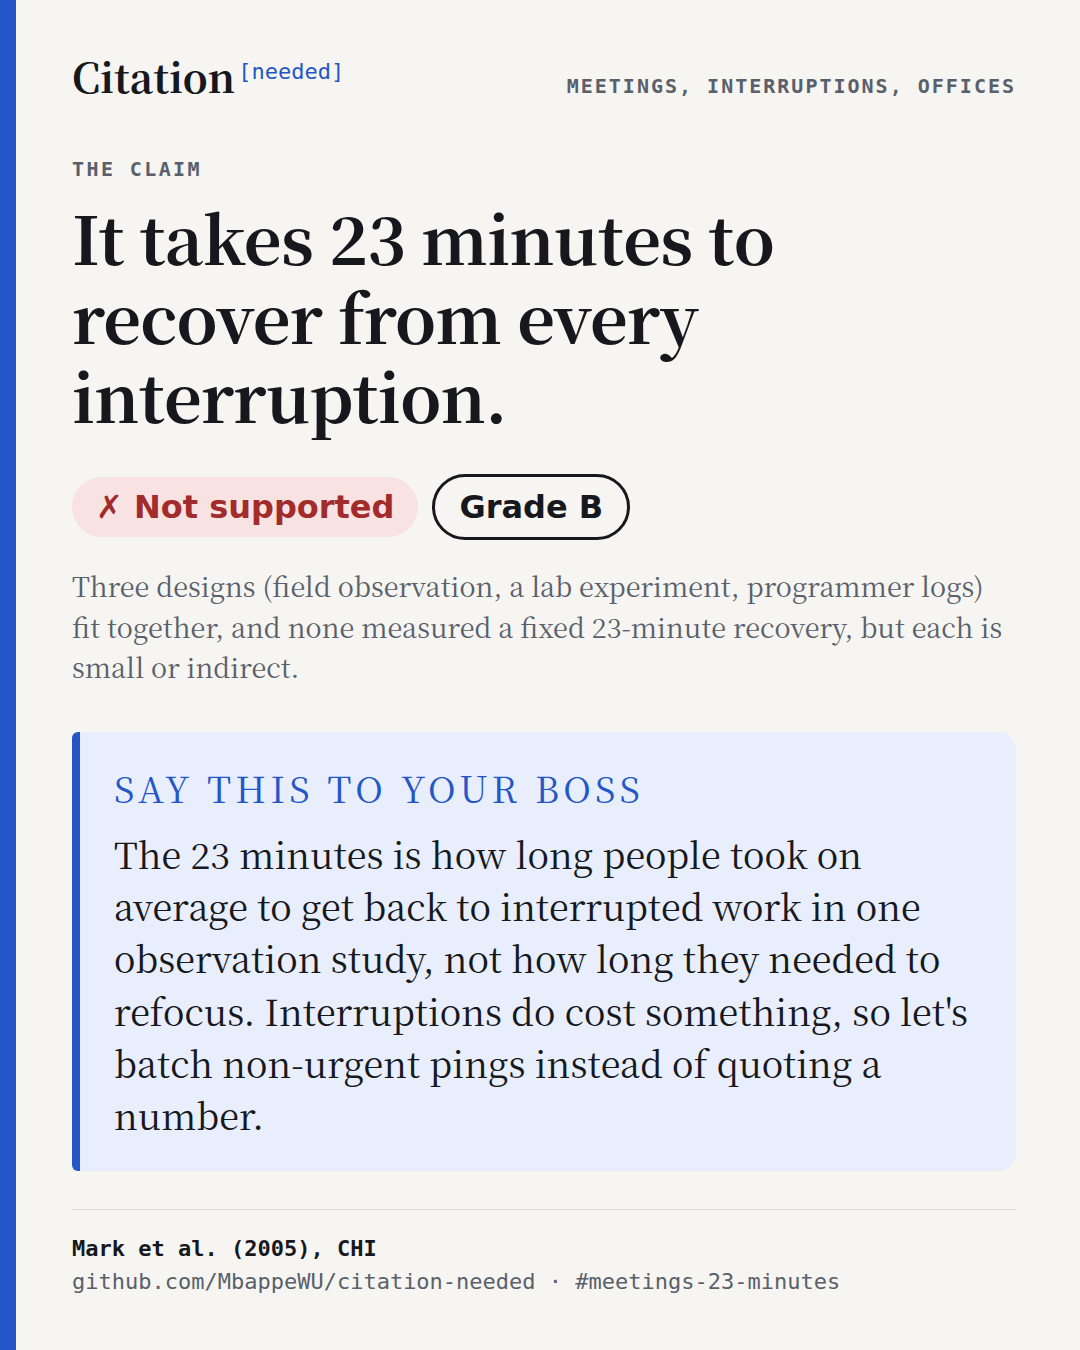
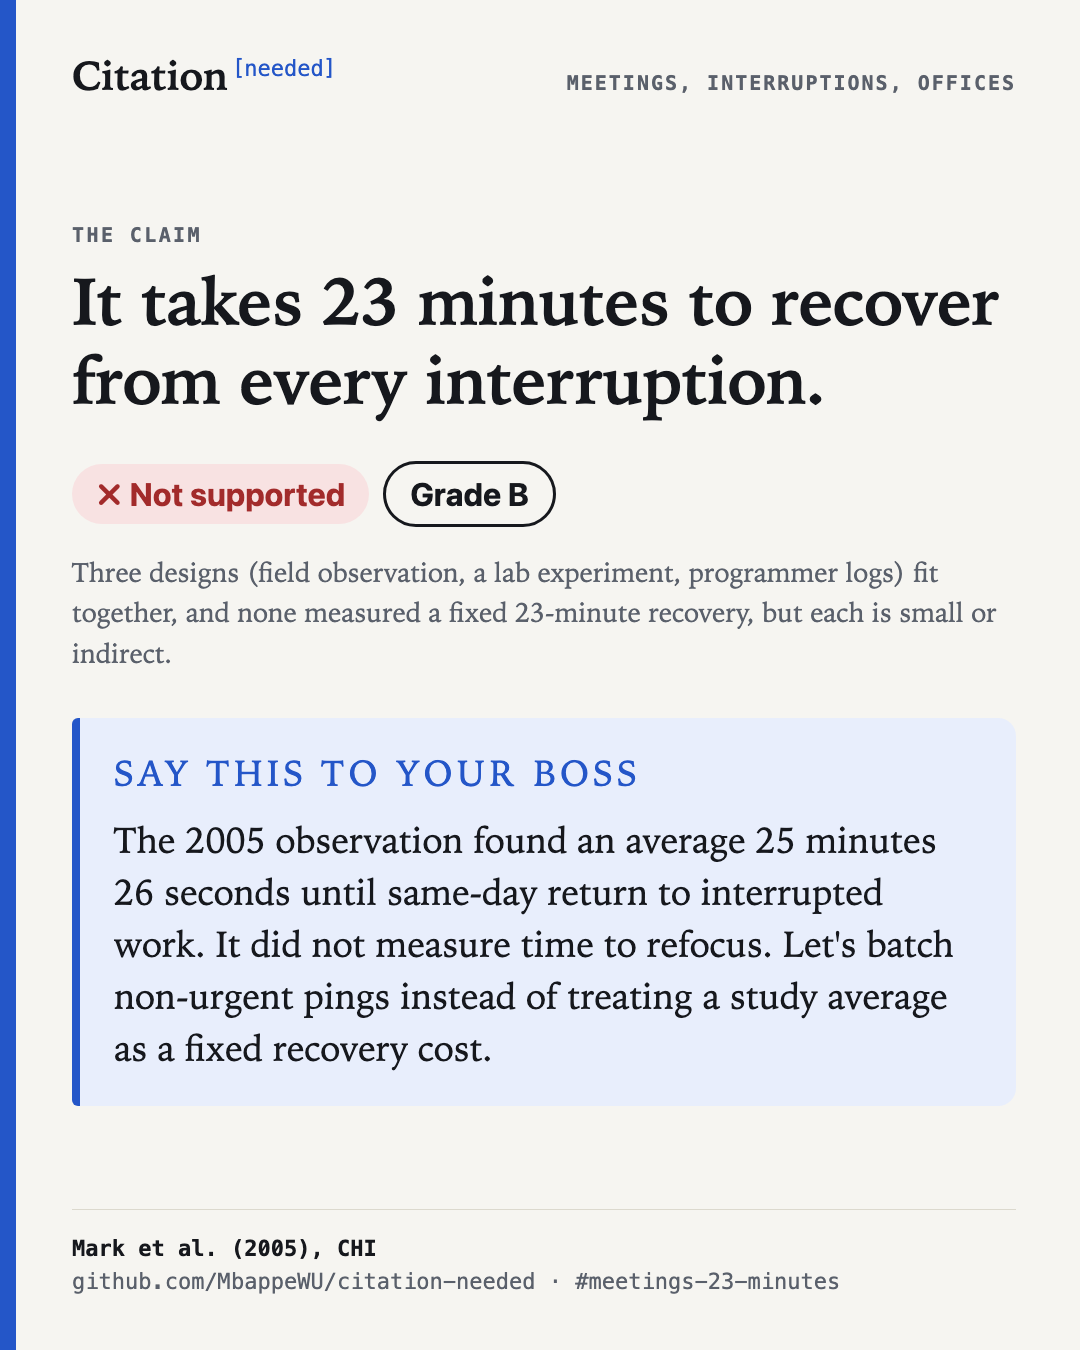
docs: correct interruption-study return time (#9)

diff --git a/skills/citation-needed/references/claims.md b/skills/citation-needed/references/claims.md
@@ -204,12 +204,12 @@ Each entry: id, claim, verdict, grade, what the research found, limits, a senten
 ### meetings-23-minutes
 - **Claim:** It takes 23 minutes to recover from every interruption. (每被打断一次，就要花 23 分钟才能恢复专注。)
 - **Verdict / grade:** Not supported / B. Three designs (field observation, a lab experiment, programmer logs) fit together, and none measured a fixed 23-minute recovery, but each is small or indirect.
-- **Evidence:** The figure traces to Gloria Mark's field observation of 24 information workers (2005). Interrupted work was resumed after roughly 23 to 25 minutes on average, and people did about two other things first. That is time until return, not time to refocus. In a 2008 lab experiment with 48 participants, interrupted work was finished faster with no loss of quality, but with more stress, frustration and effort. A log study of 86 programmers found only 10% of sessions resumed coding within 1 minute of an interruption. Resuming is often slow, but none of these studies supports a fixed 23-minute cost.
-- **Limits:** The field study had 24 information workers, not only developers. The lab study used a short email task with 48 participants. The log study measured when editing resumed, not how well people worked. None of them measured developers' recovery time directly, and sources quote the field average as both 23 and 25 minutes.
-- **Say to your boss:** The 23 minutes is how long people took on average to get back to interrupted work in one observation study, not how long they needed to refocus. Interruptions do cost something, so let's batch non-urgent pings instead of quoting a number.
+- **Evidence:** In Mark, Gonzalez and Harris's 2005 observation of 24 information workers, same-day resumptions averaged 25 minutes 26 seconds (paper p. 326). People visited about two other working spheres before returning. That is time until return, not time to refocus. In a 2008 lab experiment with 48 participants, interrupted work was finished faster with no loss of quality, but with more stress, frustration and effort. A log study of 86 programmers found only 10% of sessions resumed coding within 1 minute of an interruption. Resuming is often slow, but none of these studies supports a fixed 23-minute cost.
+- **Limits:** The observation covered 24 information workers, not only developers; the lab used 48 people on email tasks; programmer logs tracked resumed editing, not output quality. The 2005 estimate counts same-day returns and excludes interruptions in the last work hour (SD 54 min 48 sec). None directly measured developers' time to refocus.
+- **Say to your boss:** The 2005 observation found an average 25 minutes 26 seconds until same-day return to interrupted work. It did not measure time to refocus. Let's batch non-urgent pings instead of treating a study average as a fixed recovery cost.
 - **Would change the verdict:** A study that times how long developers take to get back to full speed after an interruption, using task time or error rates, and finds a stable figure near 23 minutes.
 - **Sources:** Gloria Mark, Victor M. Gonzalez, Justin Harris (2005) No task left behind? Examining the nature of fragmented work https://doi.org/10.1145/1054972.1055017; Gloria Mark, Daniela Gudith, Ulrich Klocke (2008) The cost of interrupted work: more speed and stress https://doi.org/10.1145/1357054.1357072; Chris Parnin, Spencer Rugaber (2011) Resumption strategies for interrupted programming tasks https://doi.org/10.1007/s11219-010-9104-9
-- **Checked:** 2026-10-01. Full text: https://github.com/MbappeWU/citation-needed/blob/main/chapters/04-meetings.md#meetings-23-minutes
+- **Checked:** 2026-10-02. Full text: https://github.com/MbappeWU/citation-needed/blob/main/chapters/04-meetings.md#meetings-23-minutes
 
 ### meetings-back-to-back
 - **Claim:** Back-to-back meetings are harmless. (连续开会没什么害处。)

diff --git a/chapters/04-meetings.zh-CN.md b/chapters/04-meetings.zh-CN.md
@@ -13,15 +13,15 @@
 
 **✗ 不成立 · 证据等级 B** （现场观察、实验室实验和程序员日志三类研究互相吻合，都没有测出固定的 23 分钟恢复时间，但样本较小或只是间接证据。）
 
-**研究怎么说.** 这个数字源自 Gloria Mark 2005 年对 24 名信息工作者的现场观察：被打断的工作平均隔约 23 到 25 分钟才被重新拾起，其间人们会先做约两件别的事。这是“隔多久回到原任务”，不是“多久才能重新专注”。2008 年一项 48 人的实验室实验发现，被打断的任务完成得更快、质量没有下降，但压力、挫败感和付出的努力更高。对 86 名程序员的日志研究发现，只有 10% 的会话在被打断后 1 分钟内恢复编码。恢复往往不快，但这些研究都不支持“固定 23 分钟”这个代价。
+**研究怎么说.** Mark、Gonzalez 和 Harris 2005 年对 24 名信息工作者的观察中，同日重新拾起被打断工作的平均间隔是 25 分 26 秒（论文第 326 页），其间人们会先处理约两项别的工作。这是“隔多久回到原任务”，不是“多久才能重新专注”。2008 年一项 48 人的实验室实验发现，被打断的任务完成得更快、质量没有下降，但压力、挫败感和付出的努力更高。对 86 名程序员的日志研究发现，只有 10% 的会话在被打断后 1 分钟内恢复编码。恢复往往不快，但这些研究都不支持“固定 23 分钟”这个代价。
 
-**局限.** 现场研究的 24 名信息工作者并非都是开发者；实验室研究是 48 人做的短时邮件任务；日志研究测的是何时恢复编辑，不是工作质量。它们都没有直接测过开发者的恢复时间。现场平均值在不同来源里有 23 分钟和 25 分钟两种说法。
+**局限.** 现场研究的 24 名信息工作者并非都是开发者；实验室研究是 48 人做的短时邮件任务；日志研究测的是何时恢复编辑，不是工作质量。它们都没有直接测过开发者的恢复时间。2005 年的返回间隔只统计同日恢复的工作，并排除了最后一个工作小时发生的打断。标准差为 54 分 48 秒，均值不是固定代价。
 
-> **对老板可以这样说:** 23 分钟是一项观察研究里人们平均隔多久才回到被打断的工作，不是重新专注所需的时间。打断确实有代价，所以我们把不紧急的消息集中处理，而不是引用这个数字。
+> **对老板可以这样说:** 2005 年那项观察中，同日回到被打断工作的平均间隔为 25 分 26 秒，没有测量恢复专注所需时间。我们把不紧急的消息集中处理，不把研究均值当成固定恢复代价。
 
 **什么证据会让我改口.** 有研究用任务耗时或错误率，直接测量开发者被打断后恢复到正常效率所需的时间，并得到一个稳定的、接近 23 分钟的数字。
 
-**出处** (核对于 2026-10-01):
+**出处** (核对于 2026-10-02):
 
 1. Gloria Mark, Victor M. Gonzalez, Justin Harris (2005). No task left behind? Examining the nature of fragmented work. CHI 2005. [link](https://doi.org/10.1145/1054972.1055017) <sub>✓✓ 元数据已比对，登记的引文片段已在摘要中匹配</sub> (主要来源)
 2. Gloria Mark, Daniela Gudith, Ulrich Klocke (2008). The cost of interrupted work: more speed and stress. CHI 2008. [link](https://doi.org/10.1145/1357054.1357072) <sub>✓ 元数据已核对（标题、作者、年份）</sub> (主要来源)

diff --git a/chapters/04-meetings.md b/chapters/04-meetings.md
@@ -13,15 +13,15 @@ Key: ✓ supported · ~ it depends · ✗ not supported · ? unknown. After a so
 
 **✗ Not supported · Grade B** (Three designs (field observation, a lab experiment, programmer logs) fit together, and none measured a fixed 23-minute recovery, but each is small or indirect.)
 
-**What the research says.** The figure traces to Gloria Mark's field observation of 24 information workers (2005). Interrupted work was resumed after roughly 23 to 25 minutes on average, and people did about two other things first. That is time until return, not time to refocus. In a 2008 lab experiment with 48 participants, interrupted work was finished faster with no loss of quality, but with more stress, frustration and effort. A log study of 86 programmers found only 10% of sessions resumed coding within 1 minute of an interruption. Resuming is often slow, but none of these studies supports a fixed 23-minute cost.
+**What the research says.** In Mark, Gonzalez and Harris's 2005 observation of 24 information workers, same-day resumptions averaged 25 minutes 26 seconds (paper p. 326). People visited about two other working spheres before returning. That is time until return, not time to refocus. In a 2008 lab experiment with 48 participants, interrupted work was finished faster with no loss of quality, but with more stress, frustration and effort. A log study of 86 programmers found only 10% of sessions resumed coding within 1 minute of an interruption. Resuming is often slow, but none of these studies supports a fixed 23-minute cost.
 
-**Limits.** The field study had 24 information workers, not only developers. The lab study used a short email task with 48 participants. The log study measured when editing resumed, not how well people worked. None of them measured developers' recovery time directly, and sources quote the field average as both 23 and 25 minutes.
+**Limits.** The observation covered 24 information workers, not only developers; the lab used 48 people on email tasks; programmer logs tracked resumed editing, not output quality. The 2005 estimate counts same-day returns and excludes interruptions in the last work hour (SD 54 min 48 sec). None directly measured developers' time to refocus.
 
-> **Say this to your boss:** The 23 minutes is how long people took on average to get back to interrupted work in one observation study, not how long they needed to refocus. Interruptions do cost something, so let's batch non-urgent pings instead of quoting a number.
+> **Say this to your boss:** The 2005 observation found an average 25 minutes 26 seconds until same-day return to interrupted work. It did not measure time to refocus. Let's batch non-urgent pings instead of treating a study average as a fixed recovery cost.
 
 **What would change my mind.** A study that times how long developers take to get back to full speed after an interruption, using task time or error rates, and finds a stable figure near 23 minutes.
 
-**Sources** (checked 2026-10-01):
+**Sources** (checked 2026-10-02):
 
 1. Gloria Mark, Victor M. Gonzalez, Justin Harris (2005). No task left behind? Examining the nature of fragmented work. CHI 2005. [link](https://doi.org/10.1145/1054972.1055017) <sub>✓✓ metadata compared and registered quote snippets matched in the abstract</sub> (primary)
 2. Gloria Mark, Daniela Gudith, Ulrich Klocke (2008). The cost of interrupted work: more speed and stress. CHI 2008. [link](https://doi.org/10.1145/1357054.1357072) <sub>✓ metadata checked (title, authors, year)</sub> (primary)

diff --git a/README.zh-CN.md b/README.zh-CN.md
@@ -23,7 +23,7 @@
 | [AI 编程工具能让开发者更快完成工作。](chapters/01-ai.zh-CN.md#ai-faster) | 随机试验发现提速确实存在但幅度不大，比如谷歌那项约省 21% 的时间；另有两项试验没发现提速。 | ✓ 成立 · B |
 | [开发者自己能判断 AI 有没有让自己变快。](chapters/01-ai.zh-CN.md#ai-self-estimate) | METR 试验里，开发者以为 AI 帮自己省了 20% 的时间，实测反而多花了 19%。 | ✗ 不成立 · C |
 | [工作时间越长，做的事越多。](chapters/03-hours.zh-CN.md#hours-more-output) | 在最有名的研究里，每周工时超过某个门槛后，产出越涨越慢。 | ~ 视情况 · B |
-| [每被打断一次，就要花 23 分钟才能恢复专注。](chapters/04-meetings.zh-CN.md#meetings-23-minutes) | 23 分钟出自一项 24 人的观察，指的是回到原任务所用的时间，不是重新集中注意力需要的时间。 | ✗ 不成立 · B |
+| [每被打断一次，就要花 23 分钟才能恢复专注。](chapters/04-meetings.zh-CN.md#meetings-23-minutes) | 一项 24 人观察中，同日回到原工作的平均间隔是 25 分 26 秒，没有测量恢复专注时间。 | ✗ 不成立 · B |
 | [开放式办公室能促进协作。](chapters/04-meetings.zh-CN.md#meetings-open-plan-collaboration) | 两家公司改成开放式办公后，面对面交流下降约 70%，电子沟通反而增加。 | ✗ 不成立 · B |
 | [在家办公会降低工作效率。](chapters/05-remote.zh-CN.md#remote-wfh-productivity) | 两项随机试验发现居家有提升或没有损失；一项疫情期间的 IT 员工研究发现每小时产出下降 8% 至 19%。 | ~ 视情况 · B |
 | [70% 的 IT 项目都会失败。](chapters/06-estimation.zh-CN.md#estimation-chaos-failure-rate) | “70%”把任何偏离最初预估的项目都算作失败，两篇同行评审的批评认为这些数字有误导性。 | ✗ 不成立 · B |

diff --git a/README.md b/README.md
@@ -23,7 +23,7 @@ Does overtime get more done? Do AI coding tools really make teams faster? Is rem
 | [AI coding tools make developers faster.](chapters/01-ai.md#ai-faster) | Randomised trials found real but modest gains, such as about 21% less time at Google. Two trials found none. | ✓ Supported · B |
 | [Developers can tell whether AI is speeding them up.](chapters/01-ai.md#ai-self-estimate) | In METR's trial, developers believed AI saved them 20% of their time. The clock said it cost them 19%. | ✗ Not supported · C |
 | [Working longer hours gets more done.](chapters/03-hours.md#hours-more-output) | In the best-known study, output rose ever more slowly once weekly hours passed a threshold. | ~ It depends · B |
-| [It takes 23 minutes to recover from every interruption.](chapters/04-meetings.md#meetings-23-minutes) | The 23 minutes is how long people took to return to the task in one 24-person study, not how long they needed to refocus. | ✗ Not supported · B |
+| [It takes 23 minutes to recover from every interruption.](chapters/04-meetings.md#meetings-23-minutes) | In one 24-person observation, same-day returns averaged 25 minutes 26 seconds. It did not measure time to refocus. | ✗ Not supported · B |
 | [Open-plan offices increase collaboration.](chapters/04-meetings.md#meetings-open-plan-collaboration) | After two firms moved to open plan, face-to-face talk fell by about 70% and electronic messages rose. | ✗ Not supported · B |
 | [Working from home lowers productivity.](chapters/05-remote.md#remote-wfh-productivity) | Two randomised trials found a gain or no loss. A pandemic-era study of IT staff found output per hour fell 8 to 19%. | ~ It depends · B |
 | [70% of IT projects fail.](chapters/06-estimation.md#estimation-chaos-failure-rate) | The 70% counts any gap from the original estimate as failure, and two peer-reviewed critiques call the figures misleading. | ✗ Not supported · B |
